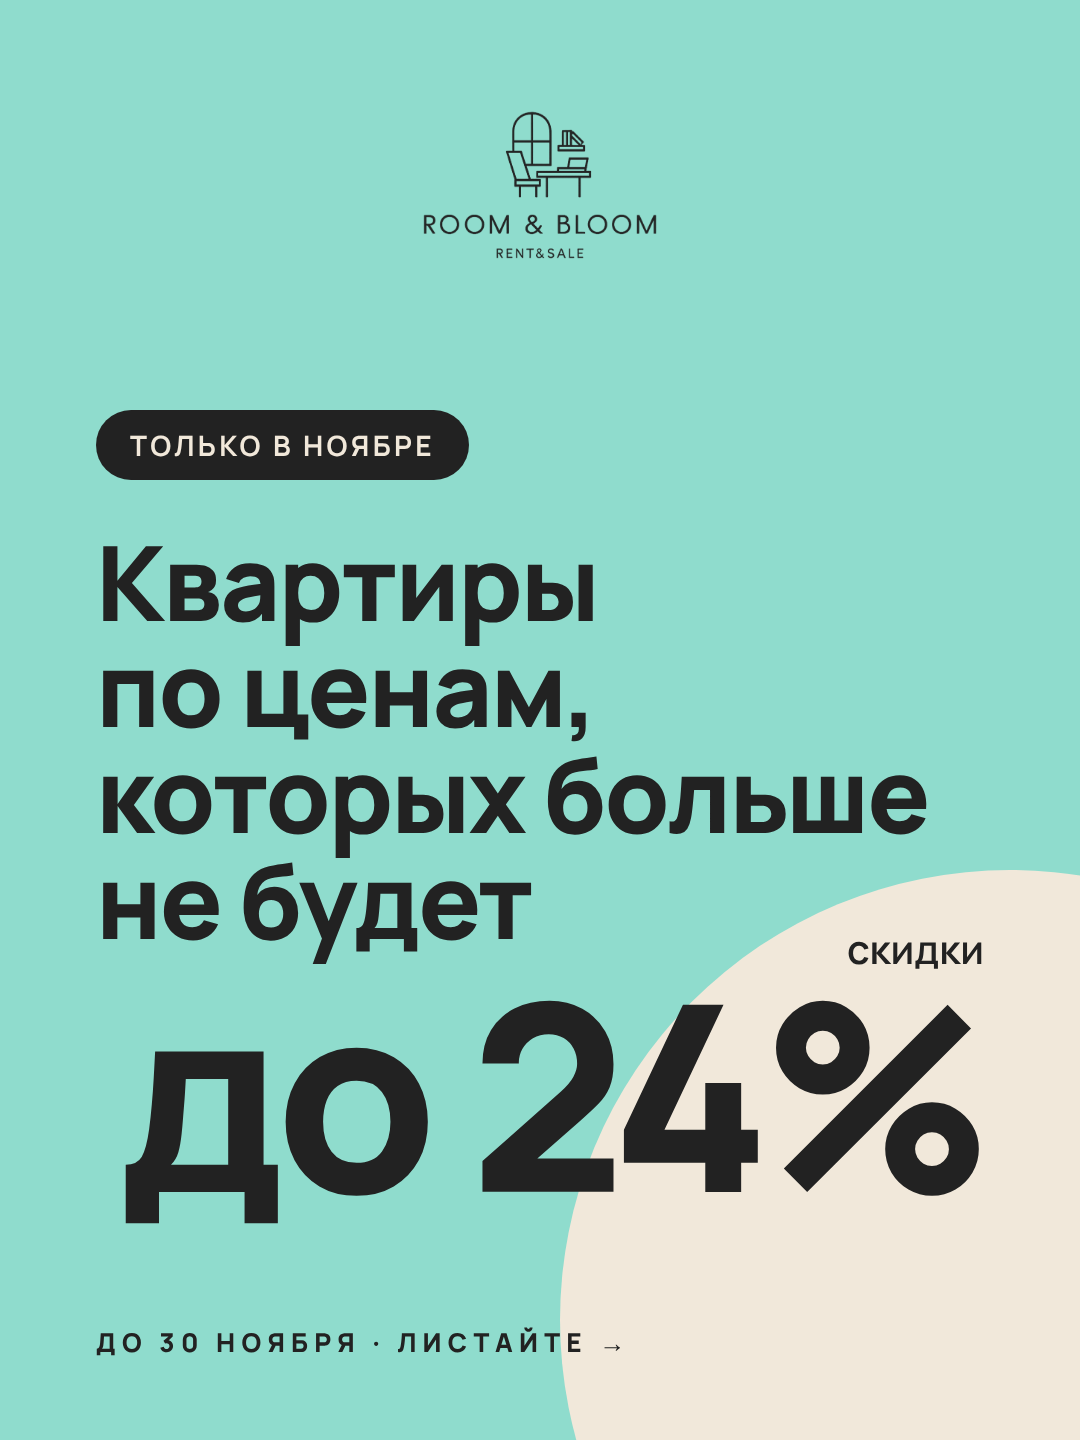
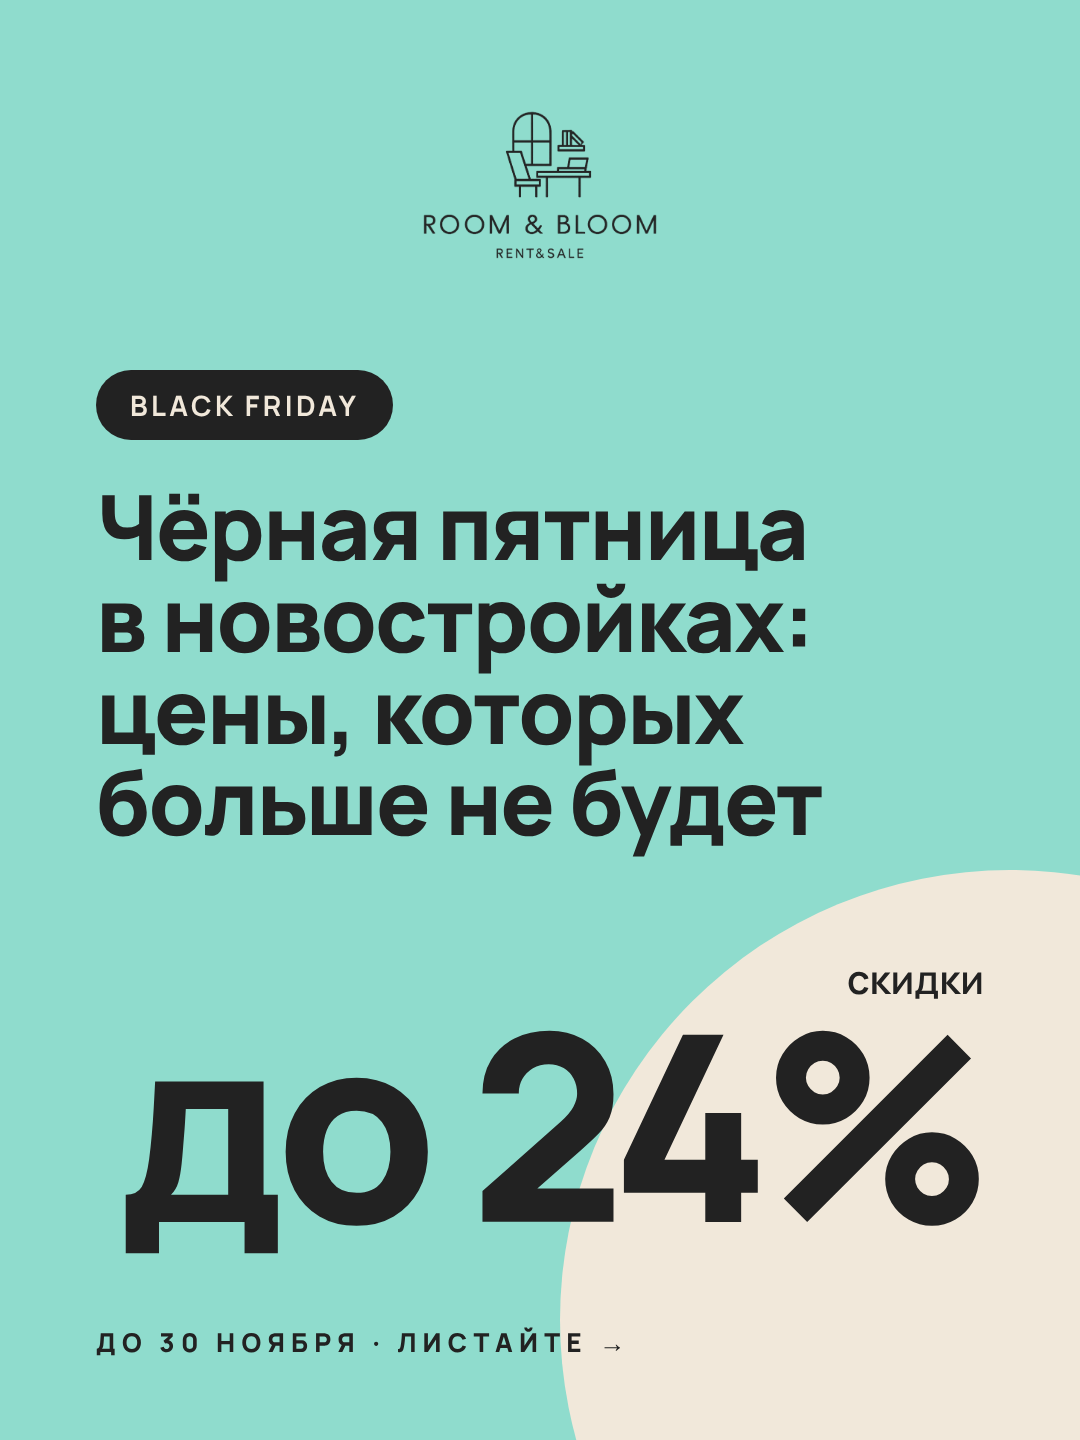
Retheme carousel for Black Friday
Claude-Session: https://claude.ai/code/session_01EUhV7wMSmo8r4YANiyN9dH

Changed region(s): [[0.0917, 0.25, 0.8556, 0.6875], [0.4278, 0.6562, 0.9167, 0.875], [0.0917, 0.7188, 0.3972, 0.875]]

diff --git a/carousel-november/carousel.html b/carousel-november/carousel.html
@@ -30,11 +30,11 @@ h1{font-weight:800;line-height:1.02;letter-spacing:-.02em}
 <section class="s mint" id="s1">
   <div class="circle" style="width:900px;height:900px;background:var(--beige);right:-380px;bottom:-330px"></div>
   <img class="logo" src="logo.png">
-  <div style="position:relative;margin-top:150px">
-    <span class="pill dark">Только в ноябре</span>
-    <h1 style="font-size:104px;margin-top:48px">Квартиры<br>по ценам,<br>которых больше<br>не будет</h1>
+  <div style="position:relative;margin-top:110px">
+    <span class="pill dark">Black Friday</span>
+    <h1 style="font-size:90px;margin-top:40px">Чёрная пятница<br>в новостройках:<br>цены, которых<br>больше не будет</h1>
   </div>
-  <div style="position:absolute;right:96px;bottom:230px;text-align:right">
+  <div style="position:absolute;right:96px;bottom:200px;text-align:right">
     <div style="font-size:40px;font-weight:600">скидки</div>
     <div class="big" style="font-size:260px">до&nbsp;24%</div>
   </div>
@@ -113,7 +113,7 @@ h1{font-weight:800;line-height:1.02;letter-spacing:-.02em}
   <div class="circle" style="width:620px;height:620px;background:var(--mint);left:-200px;top:-220px"></div>
   <div class="circle" style="width:420px;height:420px;background:var(--mint);right:-140px;bottom:-120px"></div>
   <div style="position:relative;text-align:center;margin-top:300px">
-    <span class="pill dark">Акция до 30 ноября</span>
+    <span class="pill dark">Black Friday · до 30 ноября</span>
     <h1 style="font-size:96px;margin-top:56px">Успейте<br>зафиксировать цену</h1>
     <div style="font-size:42px;line-height:1.35;margin-top:48px;font-weight:400">Пишите нам в директ —<br>подберём квартиру, пришлём<br>планировки и цены</div>
   </div>
